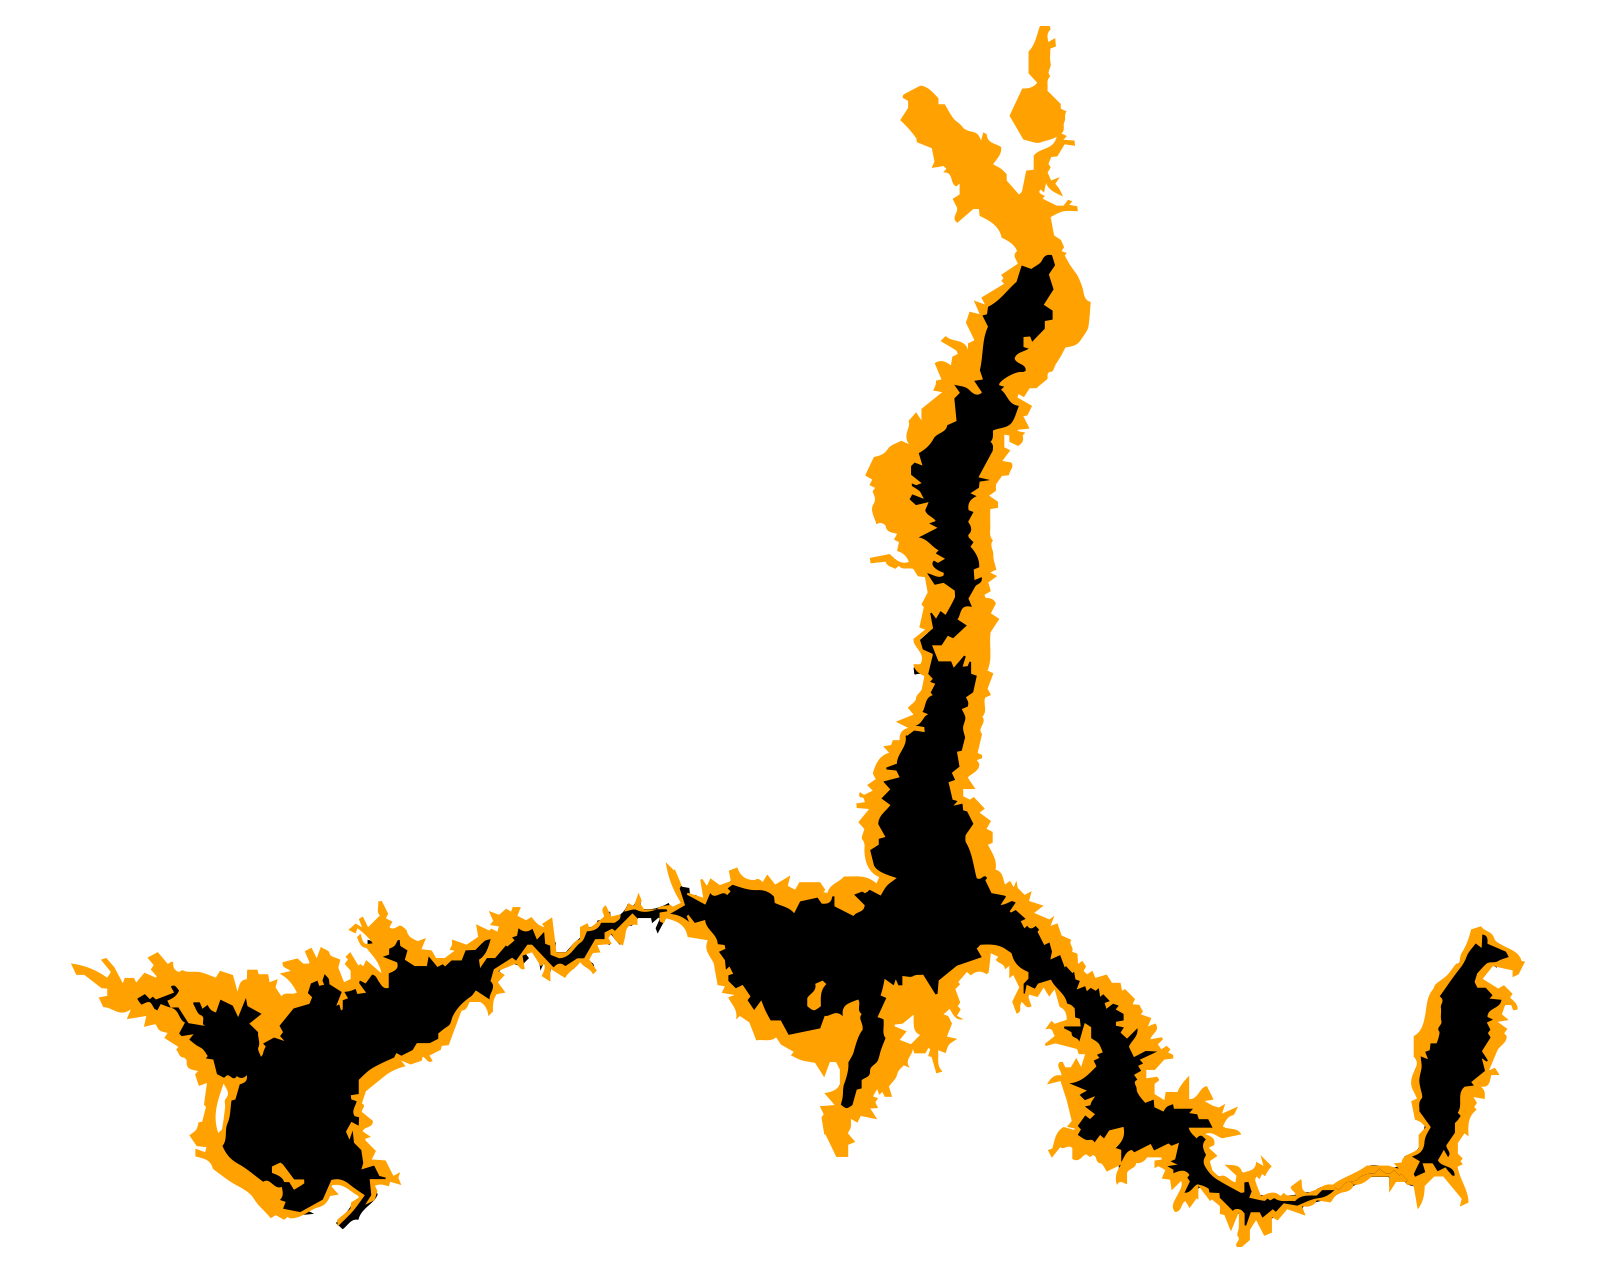
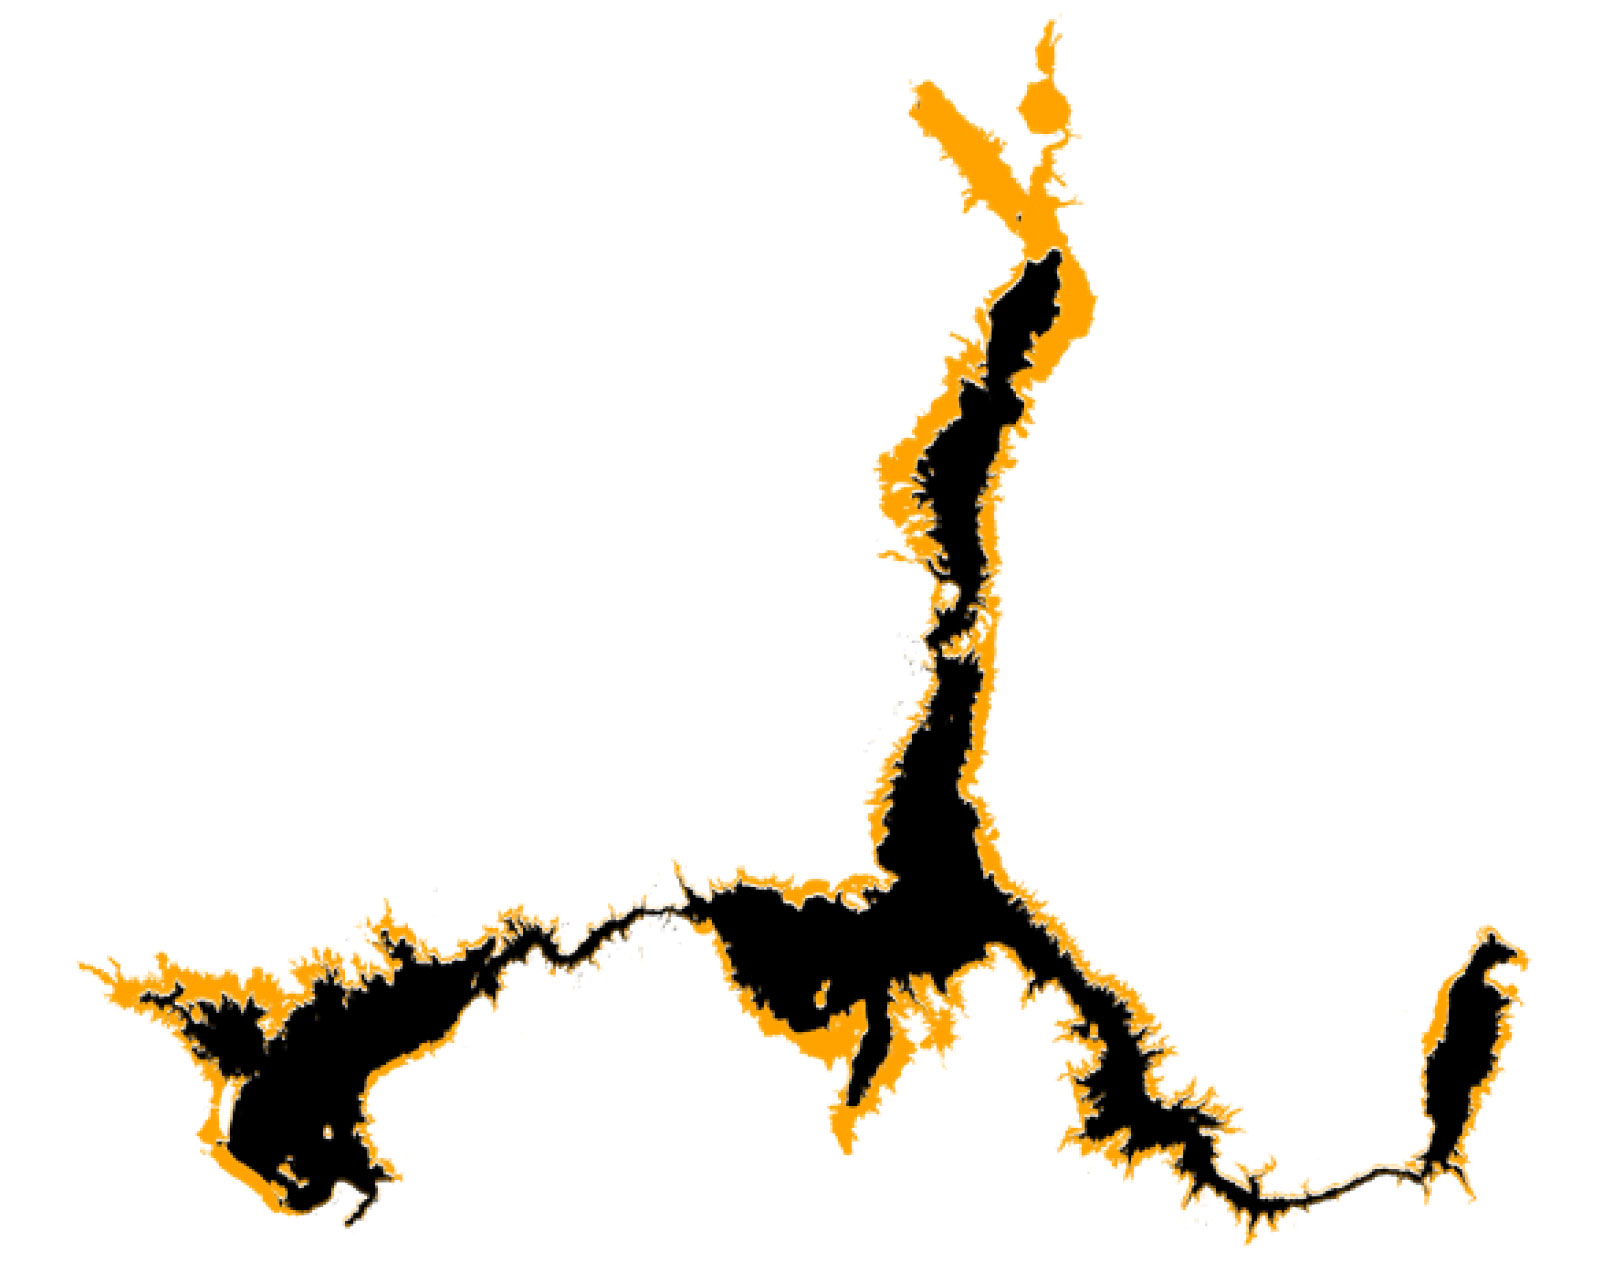
fuzzier but accurate

Changed region(s): [[0.0312, 0.0312, 0.9688, 0.9688]]

diff --git a/public_html/sections/before-after/before-after.html b/public_html/sections/before-after/before-after.html
@@ -91,6 +91,20 @@
 	<p><a href="http://bouldercityreview.com/sections/news/lake-meadhoover-dam/lake-mead%E2%80%99s-level-rises-slightly.html" target="_blank">Boat Ramps Moving: Boulder City Review article</a></p>
 	<p><a href="http://www.azcentral.com/news/articles/2010/11/01/20101101lake-mead-water-level-down.html" target="_blank">Lake infrastructure caused by declining levels</a></p>
 	<p>(<em>Photo credit: Bureau of Reclamation</em>)</p>
+	
+	<!--landsat-->
+  <figure class="cd-image-container">
+    <img src="{{baseUrl}}/img/before-after/after05.jpg" alt="Original Image" />
+    <span class="cd-image-label button-after" data-type="original">After</span>
+    <div class="cd-resize-img">
+      <!-- the resizable image on top -->
+      <img src="{{baseUrl}}/img/before-after/before05.jpg" alt="Modified Image" />
+      <span class="cd-image-label button-before" data-type="modified">Before</span>
+    </div>
+    <span class="cd-handle"></span>
+    <!-- slider handle -->
+  </figure>
+  <!-- cd-image-container -->
   
   </div>
 </div>
